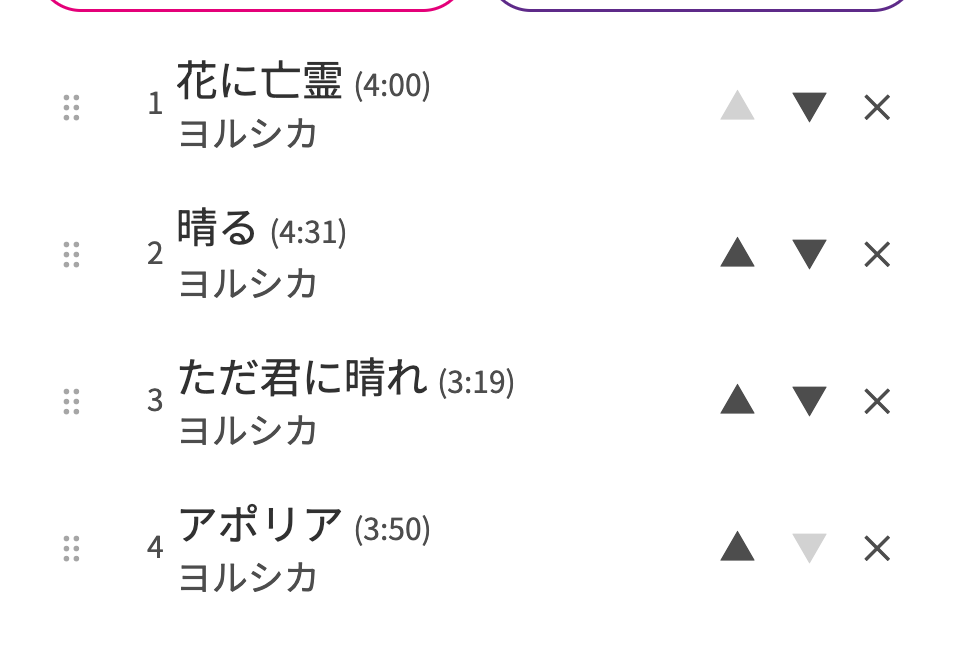
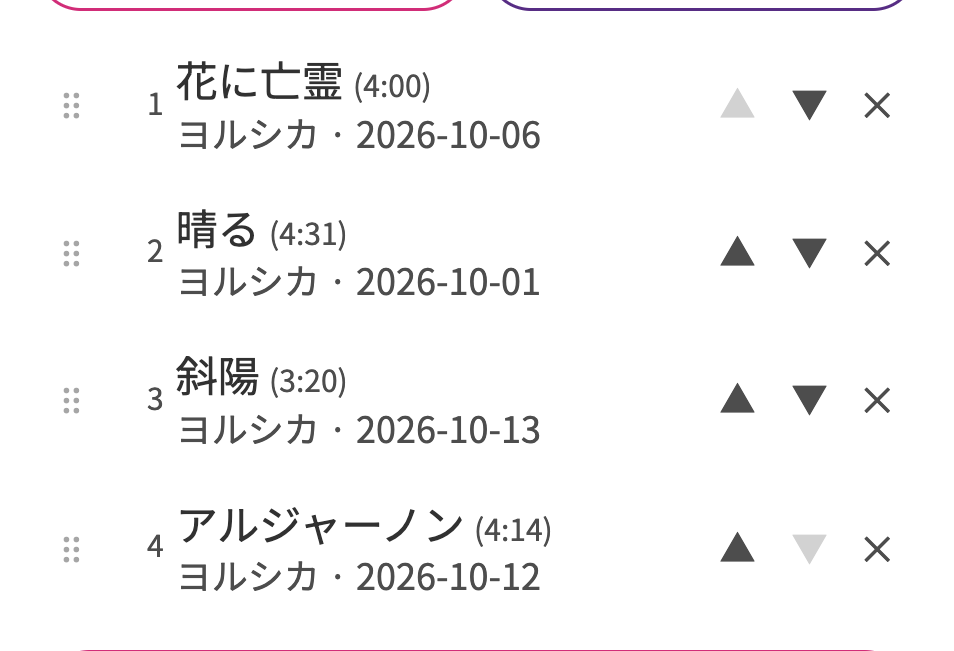
docs(guide): add the 'not sung recently' filter and last-sung date
New section 7 in /guide and docs/SETLIST_GUIDE_ja.md, a 09-since
screenshot, and all screenshots regenerated for the new filter bar and
row layout. capture.mjs gains shotSpan() for filter + first rows.

diff --git a/docs/SETLIST_GUIDE_ja.md b/docs/SETLIST_GUIDE_ja.md
@@ -34,14 +34,15 @@
 │ ① 曲を探すエリア              │ ② 選択中リスト     │
 │                             │                  │
 │  [曲名・アーティストで検索…]   │  選択中   クリア   │
-│  [全チャンネル ▼]            │  5 曲・推定 0:22  │
+│  [全チャンネル ▼][歌唱時期 ▼] │  5 曲・推定 0:22  │
 │                             │                  │
 │  アニメ バラード ゲーム …     │  目標 [60] 分     │
 │  （タグで絞り込み）           │  [指定時間まで補充]│
 │                             │  [引き直す]       │
 │  〇〇 曲 ←絞り込み後の曲数   │                  │
 │  ☐ 曲名 / アーティスト (4:00)│  ⠿ 1 曲名 (4:00) │
-│  ☐ 曲名 / アーティスト (3:31)│      アーティスト  │
+│              2026-10-13 ←最後に歌った日 │ アーティスト · 日付 │
+│  ☐ 曲名 / アーティスト (3:31)│                  │
 │  ☐ …                        │  ⠿ 2 …           │
 │                             │                  │
 │                             │  [リストを作成]    │
@@ -50,12 +51,13 @@
 
 - **左**：曲を探して**クリックで選ぶ**（もう一度クリックで解除）
 - **右**：選んだ曲が並ぶ。ここで順番を整えて、最後に書き出し
+- 各曲の右端の日付は**最後に歌った日**です。チャンネルを選んでいるときは、**そのチャンネルで**最後に歌った日になります
 
 スマホでは上下に並びます（上：曲を探す／下：選択中リスト）。
 
 ---
 
-## 使いかた 6パターン
+## 使いかた 7パターン
 
 ### ① 自分のチャンネルの曲だけから選ぶ
 
@@ -154,6 +156,24 @@
 > 表示される時間は**原曲の長さの合計**です。
 > MC・雑談・曲間は含まれないので、実際の配信はこれより長くなります。
 > 少なめに見積もっておくと安心です。
+
+---
+
+### ⑦ しばらく歌っていない曲で組む
+
+「最近と同じ曲ばかりになっちゃう」というときに。
+
+1. チャンネル → **自分のチャンネル**（①）
+2. その右の「**歌唱時期：指定なし**」から、たとえば「**半年以上歌っていない**」を選ぶ
+3. 左のリストが、半年以上歌っていない曲だけになる
+
+選べる期間：`1ヶ月` `3ヶ月` `半年` `1年`
+
+> 「**指定時間まで補充**」「**引き直す**」もこの条件のまま動きます。
+> ⑥と組み合わせれば「久しぶりの曲だけで60分」のようなセトリもすぐ作れます。
+
+> チャンネルを選んでいないときは、**全メンバーの中で最後に歌った日**で判定します。
+> 自分の持ち歌で判定したいときは、先にチャンネルを選んでください。
 
 ---
 
